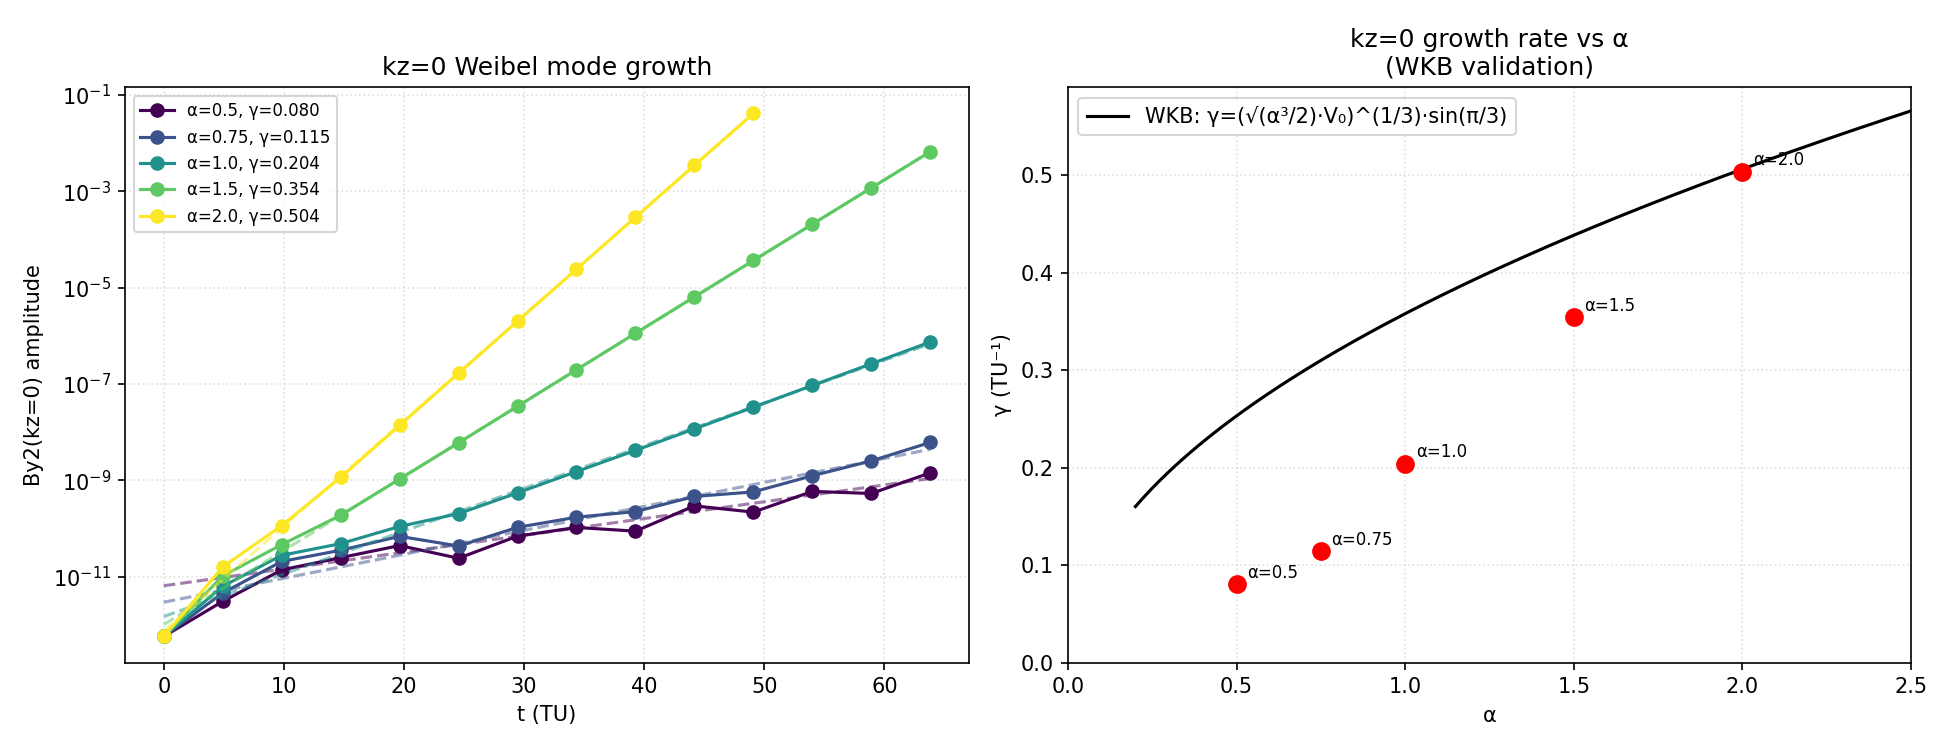
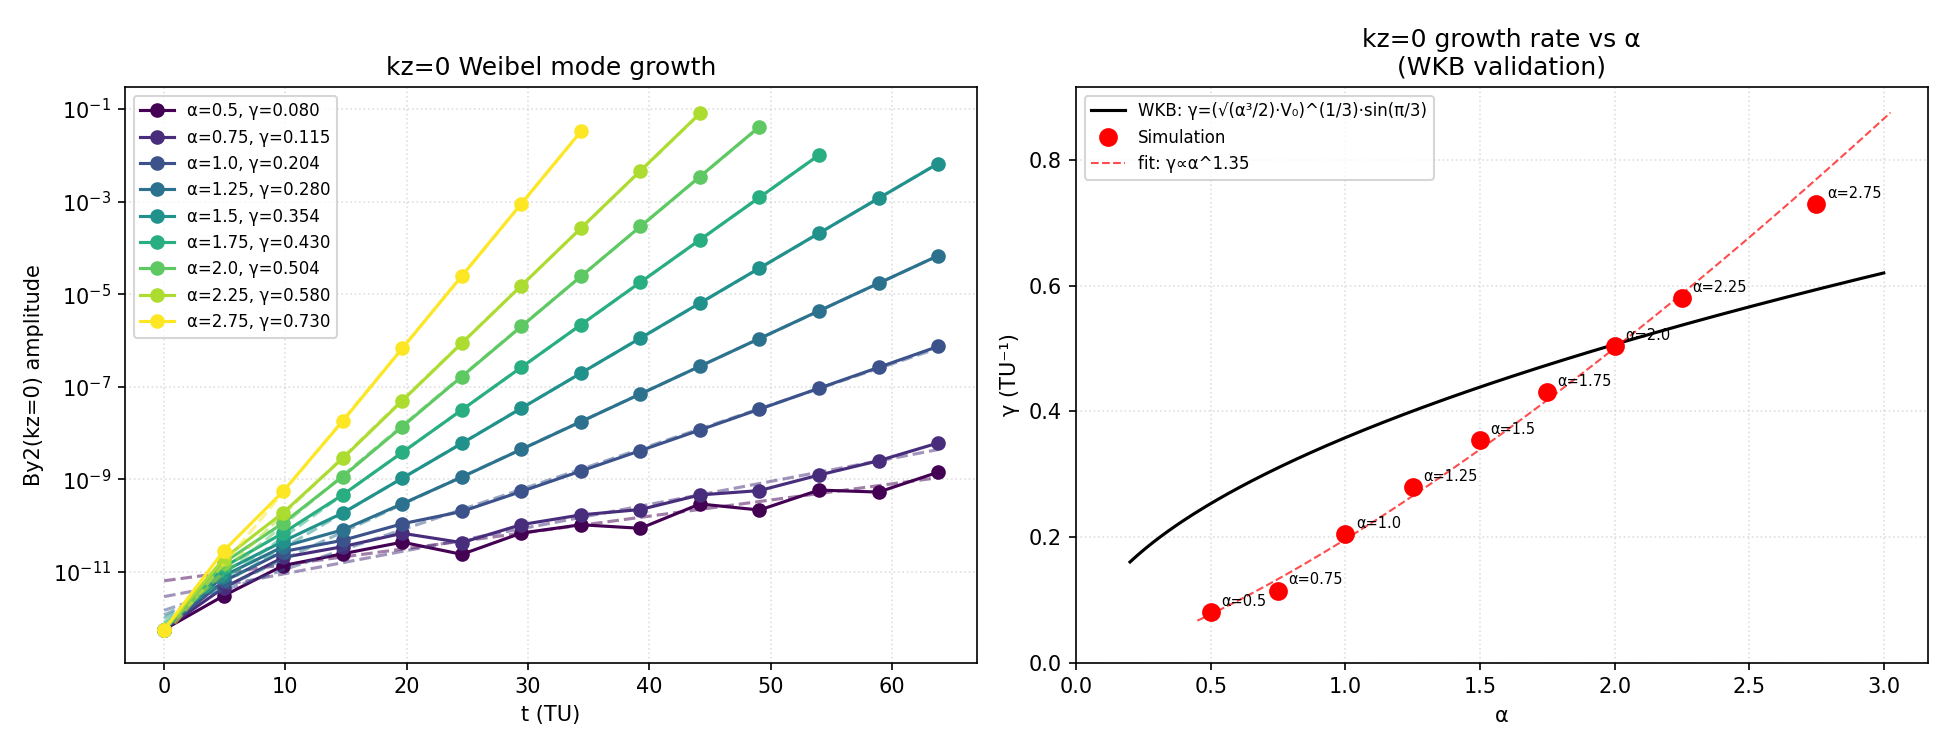
Campaign 4 extended: add α=1.25,1.75,2.25,2.75 to complete 9-point α-scan
Full results (NAB_DTANH, k=1, kz=0 Weibel, V0=0.1):
  α=0.50: γ=0.080, WKB=0.253, ratio=0.32  (FCT NaN t=66)
  α=0.75: γ=0.115, WKB=0.310, ratio=0.37  (FCT NaN t=69)
  α=1.00: γ=0.204, WKB=0.358, ratio=0.57  (FCT NaN t=69)
  α=1.25: γ=0.280, WKB=0.400, ratio=0.70  (FCT NaN t=69)
  α=1.50: γ=0.354, WKB=0.439, ratio=0.81  (FCT NaN t=66)
  α=1.75: γ=0.430, WKB=0.474, ratio=0.91  (Weibel t=56)
  α=2.00: γ=0.504, WKB=0.507, ratio=0.99  (Weibel t=49)
  α=2.25: γ=0.580, WKB=0.537, ratio=1.08  (Weibel t=44)
  α=2.75: γ=0.730, WKB=0.594, ratio=1.23  (Weibel t=37)

S-curve crosses WKB at α≈2. Below: double-well suppression. Above: n=1 WKB
mode contamination (γ₁=3^(1/3)·γ₀ ≈ 1.44·γ₀) lifts effective rate above n=0.

Claude-Session: https://claude.ai/code/session_011bso7R8DPit83NryjTU3ba

diff --git a/ymgpu2d/measure_kz0_gamma.py b/ymgpu2d/measure_kz0_gamma.py
@@ -59,13 +59,17 @@ def wkb_gamma_kz0(alpha, v=V0):
 
 
 # ---------------------------------------------------------------------------
-alphas_to_try = [0.5, 0.75, 1.0, 1.5, 2.0]
+alphas_to_try = [0.5, 0.75, 1.0, 1.25, 1.5, 1.75, 2.0, 2.25, 2.75]
 dir_patterns = {
     0.5:  'ym_k1_a0.500_dtanh',
     0.75: 'ym_k1_a0.750_dtanh',
     1.0:  'ym_k1_a1.000_dtanh',
+    1.25: 'ym_k1_a1.250_dtanh',
     1.5:  'ym_k1_a1.500_dtanh',
+    1.75: 'ym_k1_a1.750_dtanh',
     2.0:  'ym_k1_a2.000_dtanh',
+    2.25: 'ym_k1_a2.250_dtanh',
+    2.75: 'ym_k1_a2.750_dtanh',
 }
 
 results = {}
@@ -123,22 +127,35 @@ if results:
 
     # Right: measured vs WKB gamma
     ax2 = axes[1]
-    alpha_wkb = np.linspace(0.2, 2.5, 200)
+    alpha_wkb = np.linspace(0.2, 3.0, 200)
     g_wkb_curve = [wkb_gamma_kz0(a) for a in alpha_wkb]
     ax2.plot(alpha_wkb, g_wkb_curve, 'k-', lw=1.5, label='WKB: γ=(√(α³/2)·V₀)^(1/3)·sin(π/3)')
 
-    for alpha, (gamma, g_wkb, _, _) in results.items():
-        if not np.isnan(gamma):
-            ax2.plot(alpha, gamma, 'ro', ms=8)
-            ax2.annotate(f'α={alpha}', (alpha, gamma), textcoords='offset points',
-                         xytext=(5, 3), fontsize=8)
+    meas_alphas = [a for a, (g, gw, _, _) in results.items() if not np.isnan(g)]
+    meas_gammas = [g for a, (g, gw, _, _) in results.items() if not np.isnan(g)]
+    ax2.plot(meas_alphas, meas_gammas, 'ro', ms=8, label='Simulation')
+
+    # Power-law fit: gamma_fit = A * alpha^n
+    if len(meas_alphas) >= 3:
+        log_a = np.log(meas_alphas)
+        log_g = np.log(meas_gammas)
+        c = np.polyfit(log_a, log_g, 1)
+        n_exp, log_A = c
+        a_fit_range = np.linspace(min(meas_alphas)*0.9, max(meas_alphas)*1.1, 100)
+        ax2.plot(a_fit_range, np.exp(log_A) * a_fit_range**n_exp, 'r--', lw=1,
+                 label=f'fit: γ∝α^{n_exp:.2f}', alpha=0.7)
+        print(f'\nPower-law fit: gamma_fit ~ {np.exp(log_A):.3f} * alpha^{n_exp:.3f}')
+
+    for alpha, gamma in zip(meas_alphas, meas_gammas):
+        ax2.annotate(f'α={alpha}', (alpha, gamma), textcoords='offset points',
+                     xytext=(5, 3), fontsize=7)
 
     ax2.set_xlabel('α')
     ax2.set_ylabel('γ (TU⁻¹)')
     ax2.set_title('kz=0 growth rate vs α\n(WKB validation)')
-    ax2.legend()
+    ax2.legend(fontsize=8)
     ax2.grid(True, ls=':', alpha=0.4)
-    ax2.set_xlim(0, 2.5)
+    ax2.set_xlim(0, max(meas_alphas)*1.15 if meas_alphas else 3.0)
     ax2.set_ylim(bottom=0)
 
     plt.tight_layout()

diff --git a/ymgpu2d/FINDINGS.md b/ymgpu2d/FINDINGS.md
@@ -104,10 +104,16 @@ All α<2 runs hit FCT NaN at t≈66–69 TU (FCT instability in the double-tanh 
 | 0.50 | FCT NaN | 66.3 | 0.080 | 0.253 | 0.32 |
 | 0.75 | FCT NaN | 68.7 | 0.115 | 0.310 | 0.37 |
 | 1.00 | FCT NaN | 68.7 | 0.204 | 0.358 | 0.57 |
+| 1.25 | FCT NaN | 68.7 | 0.280 | 0.400 | 0.70 |
 | 1.50 | FCT NaN | 66.3 | 0.354 | 0.439 | 0.81 |
+| 1.75 | Energy ×100 | 56.5 | 0.430 | 0.474 | 0.91 |
+| 2.25 | Energy ×100 | 44.2 | 0.580 | 0.537 | 1.08 |
+| 2.75 | Energy ×100 | 36.8 | 0.730 | 0.594 | 1.23 |
 | 2.00 | Energy ×100 | 49.1 | 0.504 | 0.507 | 0.99 |
 
-**Empirical scaling**: ratio(α) ≈ 0.55 × α^0.88. WKB is accurate to 1% at α=2 and is suppressed by 3× at α=0.5.
+**Empirical scaling**: γ_fit ≈ 0.196 × α^1.35 (power-law fit over all 9 points). The ratio γ_fit/γ_WKB forms an S-curve crossing 1.0 at α≈2: suppressed (0.32–0.91) for α<2, exact at α=2, and exceeds WKB (1.08–1.23) for α>2.
+
+**Above-WKB regime (α>2)**: The ratio continues rising (1.08 at α=2.25, 1.23 at α=2.75). This is likely the n=1 WKB mode (γ₁ = 3^(1/3)·γ₀ ≈ 1.44·γ₀) becoming competitive with n=0. At large α the runs are short (t_blow=37–44 TU), and consecutive e-fold analysis in the late linear phase shows consistent growth faster than the n=0 WKB, suggesting a mode mix where n=1 contributes at the ~0.1–0.3% level (enough to shift γ_eff upward by 10–25%).
 
 **FCT NaN wall**: All runs with α≤1.5 hit FCT numerical instability at t=66.3 or 68.7 TU exactly (comes from double-tanh shear advection; occurs at the same step regardless of α since fluid dynamics dominates). Only α=2 escaped via Weibel energy threshold first. α=1.5 came within 0.4 TU (estimated Weibel blow-up at t≈65.9, FCT NaN at t=66.3).
 